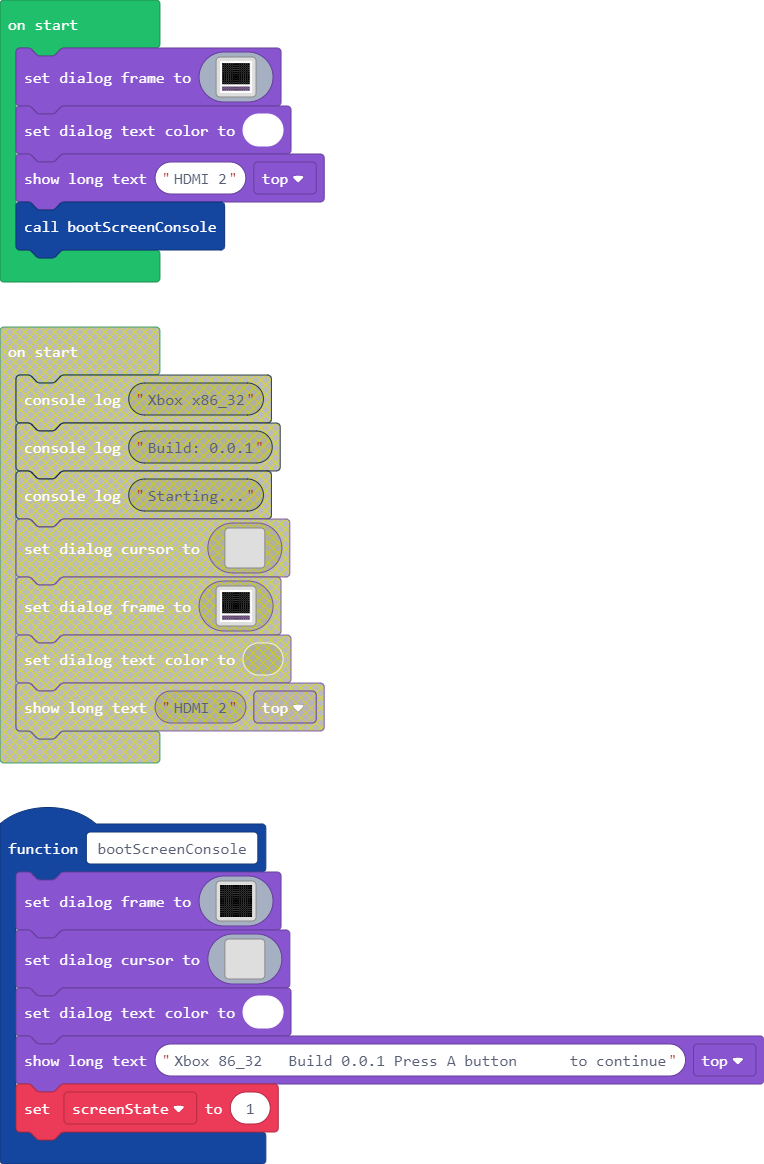
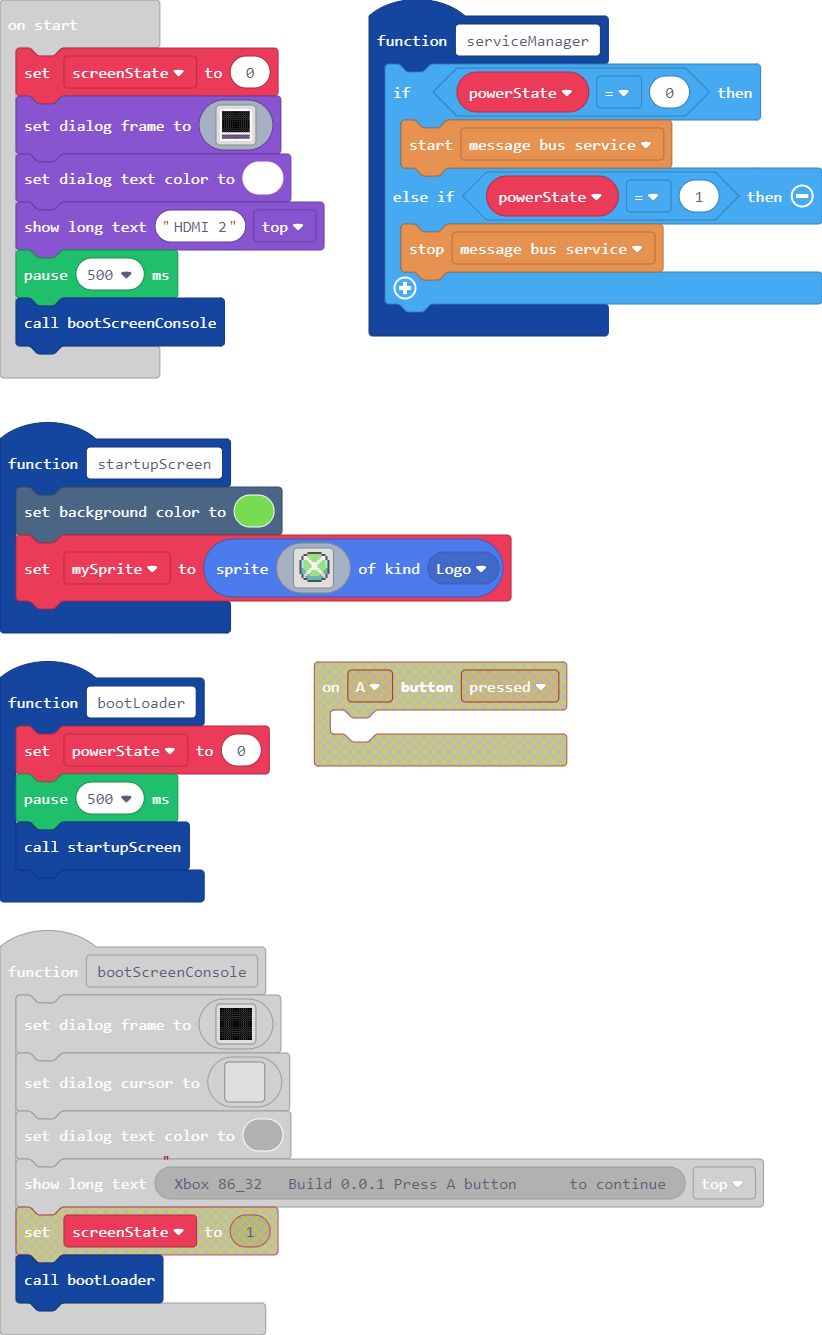
Update main.blocks, main.ts

diff --git a/main.ts b/main.ts
@@ -3,10 +3,73 @@ enum JacDacMessage {
 }
 namespace SpriteKind {
     export const Screen = SpriteKind.create()
+    export const Logo = SpriteKind.create()
 }
-controller.A.onEvent(ControllerButtonEvent.Pressed, function () {
-	
-})
+function serviceManager () {
+    if (powerState == 0) {
+        jacdac.messageBusService.start()
+    } else if (powerState == 1) {
+        jacdac.messageBusService.stop()
+    }
+}
+function startupScreen () {
+    scene.setBackgroundColor(7)
+    mySprite = sprites.create(img`
+. . . . . . . . . . . . . . . f f f f f f f f f f f f f f f f f f f f f . . . . . . . . . . . . 
+. . . . . . . . . . . . . . . f f f f f f f f f f f f f f f f f f f f f . . . . . . . . . . . . 
+. . . . . . . . . . . . . . . f f f f f f f f f f f f f f f f f f f f f . . . . . . . . . . . . 
+. . . . . . . . . f f f f f f 7 7 7 7 7 7 7 7 7 7 7 7 7 7 7 7 7 7 7 7 7 f f f f f f . . . . . . 
+. . . . . . . . . f f f f f f 7 7 7 7 7 7 7 7 7 7 7 7 7 7 7 7 7 7 7 7 7 f f f f f f . . . . . . 
+. . . . . . . . . f f f f f f 7 7 7 7 7 7 7 7 7 7 7 7 7 7 7 7 7 7 7 7 7 f f f f f f . . . . . . 
+. . . . . . f f f 1 1 1 1 1 1 7 7 7 7 7 7 7 7 7 7 7 7 7 7 7 7 7 7 7 7 7 1 1 1 1 1 1 f f f . . . 
+. . . . . . f f f 1 1 1 1 1 1 7 7 7 7 7 7 7 7 7 7 7 7 7 7 7 7 7 7 7 7 7 1 1 1 1 1 1 f f f . . . 
+. . . . . . f f f 1 1 1 1 1 1 7 7 7 7 7 7 7 7 7 7 7 7 7 7 7 7 7 7 7 7 7 1 1 1 1 1 1 f f f . . . 
+. . . . . . f f f 1 1 1 1 1 1 1 1 1 7 7 7 7 7 7 7 7 7 7 7 7 7 7 7 1 1 1 1 1 1 1 1 1 f f f . . . 
+. . . . . . f f f 1 1 1 1 1 1 1 1 1 7 7 7 7 7 7 7 7 7 7 7 7 7 7 7 1 1 1 1 1 1 1 1 1 f f f . . . 
+. . . . . . f f f 1 1 1 1 1 1 1 1 1 7 7 7 7 7 7 7 7 7 7 7 7 7 7 7 1 1 1 1 1 1 1 1 1 f f f . . . 
+. . . f f f 9 9 9 7 7 7 7 7 7 1 1 1 1 1 1 7 7 7 7 7 7 7 7 7 1 1 1 1 1 1 7 7 7 7 7 7 9 9 9 f f f 
+. . . f f f 9 9 9 7 7 7 7 7 7 1 1 1 1 1 1 7 7 7 7 7 7 7 7 7 1 1 1 1 1 1 7 7 7 7 7 7 9 9 9 f f f 
+. . . f f f 9 9 9 7 7 7 7 7 7 1 1 1 1 1 1 7 7 7 7 7 7 7 7 7 1 1 1 1 1 1 7 7 7 7 7 7 9 9 9 f f f 
+. . . f f f 9 9 9 7 7 7 7 7 7 7 7 7 1 1 1 1 1 1 1 1 1 1 1 1 1 1 1 7 7 7 7 7 7 7 7 7 9 9 9 f f f 
+. . . f f f 9 9 9 7 7 7 7 7 7 7 7 7 1 1 1 1 1 1 1 1 1 1 1 1 1 1 1 7 7 7 7 7 7 7 7 7 9 9 9 f f f 
+. . . f f f 9 9 9 7 7 7 7 7 7 7 7 7 1 1 1 1 1 1 1 1 1 1 1 1 1 1 1 7 7 7 7 7 7 7 7 7 9 9 9 f f f 
+. . . f f f 9 9 9 7 7 7 7 7 7 7 7 7 7 7 7 1 1 1 1 1 1 1 1 1 7 7 7 7 7 7 7 7 7 7 7 7 9 9 9 f f f 
+. . . f f f 9 9 9 7 7 7 7 7 7 7 7 7 7 7 7 1 1 1 1 1 1 1 1 1 7 7 7 7 7 7 7 7 7 7 7 7 9 9 9 f f f 
+. . . f f f 9 9 9 7 7 7 7 7 7 7 7 7 7 7 7 1 1 1 1 1 1 1 1 1 7 7 7 7 7 7 7 7 7 7 7 7 9 9 9 f f f 
+. . . f f f 9 9 9 7 7 7 7 7 7 7 7 7 7 7 7 1 1 1 1 1 1 1 1 1 7 7 7 7 7 7 7 7 7 7 7 7 9 9 9 f f f 
+. . . f f f 9 9 9 7 7 7 7 7 7 7 7 7 7 7 7 1 1 1 1 1 1 1 1 1 7 7 7 7 7 7 7 7 7 7 7 7 9 9 9 f f f 
+. . . f f f 9 9 9 7 7 7 7 7 7 7 7 7 7 7 7 1 1 1 1 1 1 1 1 1 7 7 7 7 7 7 7 7 7 7 7 7 9 9 9 f f f 
+. . . f f f 6 6 6 7 7 7 7 7 7 7 7 7 1 1 1 1 1 1 1 1 1 1 1 1 1 1 1 7 7 7 7 7 7 7 7 7 6 6 6 f f f 
+. . . f f f 6 6 6 7 7 7 7 7 7 7 7 7 1 1 1 1 1 1 1 1 1 1 1 1 1 1 1 7 7 7 7 7 7 7 7 7 6 6 6 f f f 
+. . . f f f 6 6 6 7 7 7 7 7 7 7 7 7 1 1 1 1 1 1 1 1 1 1 1 1 1 1 1 7 7 7 7 7 7 7 7 7 6 6 6 f f f 
+. . . f f f 6 6 6 6 6 6 7 7 7 1 1 1 1 1 1 7 7 7 7 7 7 7 7 7 1 1 1 1 1 1 7 7 7 6 6 6 6 6 6 f f f 
+. . . f f f 6 6 6 6 6 6 7 7 7 1 1 1 1 1 1 7 7 7 7 7 7 7 7 7 1 1 1 1 1 1 7 7 7 6 6 6 6 6 6 f f f 
+. . . f f f 6 6 6 6 6 6 7 7 7 1 1 1 1 1 1 7 7 7 7 7 7 7 7 7 1 1 1 1 1 1 7 7 7 6 6 6 6 6 6 f f f 
+. . . f f f 6 6 6 6 6 6 d d d 1 1 1 7 7 7 7 7 7 7 7 7 7 7 7 7 7 7 1 1 1 d d d 6 6 6 6 6 6 f f f 
+. . . f f f 6 6 6 6 6 6 d d d 1 1 1 7 7 7 7 7 7 7 7 7 7 7 7 7 7 7 1 1 1 d d d 6 6 6 6 6 6 f f f 
+. . . f f f 6 6 6 6 6 6 d d d 1 1 1 7 7 7 7 7 7 7 7 7 7 7 7 7 7 7 1 1 1 d d d 6 6 6 6 6 6 f f f 
+. . . . . . f f f d d d d d d 6 6 6 7 7 7 7 7 7 7 7 7 7 7 7 7 7 7 6 6 6 d d d d d d f f f . . . 
+. . . . . . f f f d d d d d d 6 6 6 7 7 7 7 7 7 7 7 7 7 7 7 7 7 7 6 6 6 d d d d d d f f f . . . 
+. . . . . . f f f d d d d d d 6 6 6 7 7 7 7 7 7 7 7 7 7 7 7 7 7 7 6 6 6 d d d d d d f f f . . . 
+. . . . . . f f f d d d 6 6 6 6 6 6 6 6 6 6 6 6 6 6 6 6 6 6 6 6 6 6 6 6 6 6 6 d d d f f f . . . 
+. . . . . . f f f d d d 6 6 6 6 6 6 6 6 6 6 6 6 6 6 6 6 6 6 6 6 6 6 6 6 6 6 6 d d d f f f . . . 
+. . . . . . f f f d d d 6 6 6 6 6 6 6 6 6 6 6 6 6 6 6 6 6 6 6 6 6 6 6 6 6 6 6 d d d f f f . . . 
+. . . . . . . . . f f f f f f 6 6 6 6 6 6 6 6 6 6 6 6 6 6 6 6 6 6 6 6 6 f f f f f f . . . . . . 
+. . . . . . . . . f f f f f f 6 6 6 6 6 6 6 6 6 6 6 6 6 6 6 6 6 6 6 6 6 f f f f f f . . . . . . 
+. . . . . . . . . f f f f f f 6 6 6 6 6 6 6 6 6 6 6 6 6 6 6 6 6 6 6 6 6 f f f f f f . . . . . . 
+. . . . . . . . . . . . . . . f f f f f f f f f f f f f f f f f f f f f . . . . . . . . . . . . 
+. . . . . . . . . . . . . . . f f f f f f f f f f f f f f f f f f f f f . . . . . . . . . . . . 
+. . . . . . . . . . . . . . . f f f f f f f f f f f f f f f f f f f f f . . . . . . . . . . . . 
+. . . . . . . . . . . . . . . . . . . . . . . . . . . . . . . . . . . . . . . . . . . . . . . . 
+. . . . . . . . . . . . . . . . . . . . . . . . . . . . . . . . . . . . . . . . . . . . . . . . 
+. . . . . . . . . . . . . . . . . . . . . . . . . . . . . . . . . . . . . . . . . . . . . . . . 
+`, SpriteKind.Logo)
+}
+function bootLoader () {
+    powerState = 0
+    pause(500)
+    startupScreen()
+}
 function bootScreenConsole () {
     game.setDialogFrame(img`
 f f f f f f f f f f f f f f f 
@@ -45,8 +108,10 @@ f f f f f f f f f f f f f f f
 `)
     game.setDialogTextColor(1)
     game.showLongText("Xbox 86_32   Build 0.0.1 Press A button      to continue", DialogLayout.Top)
-    screenState = 1
+    bootLoader()
 }
+let mySprite: Sprite = null
+let powerState = 0
 let screenState = 0
 game.setDialogFrame(img`
 1 1 1 1 1 1 1 1 1 1 1 1 1 1 1 
@@ -67,4 +132,5 @@ game.setDialogFrame(img`
 `)
 game.setDialogTextColor(1)
 game.showLongText("HDMI 2", DialogLayout.Top)
+pause(500)
 bootScreenConsole()
